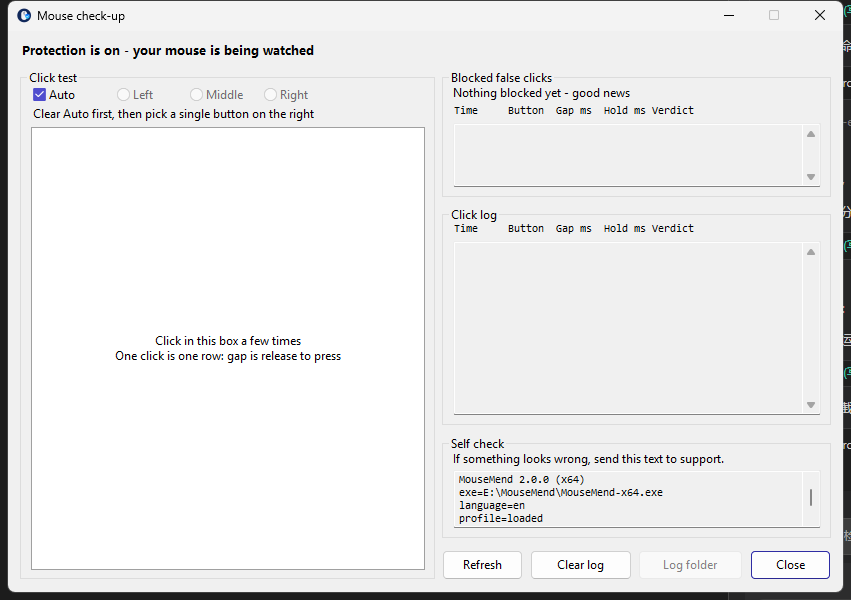
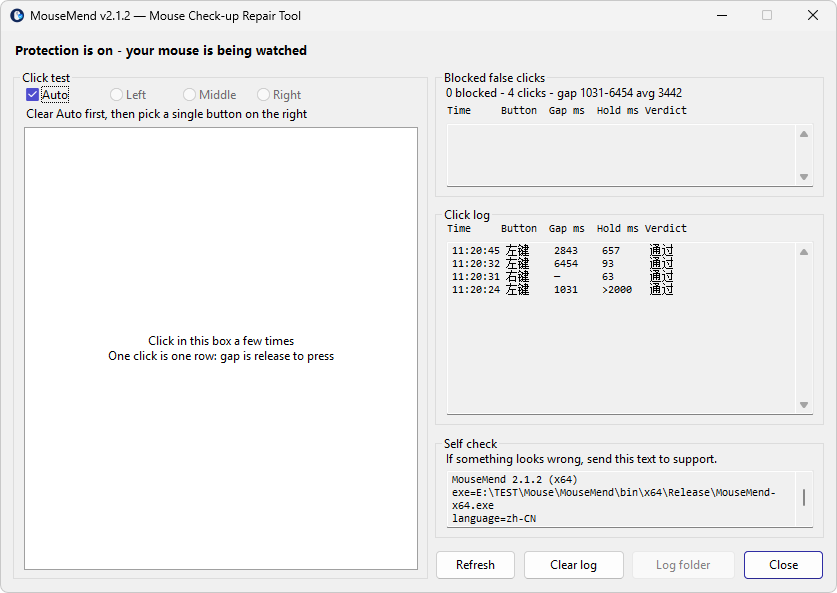
Refresh the screenshots: six now, and the tray menu in both languages
Three changes the new set makes visible at a glance.

The check-up window shots were taken before the caption carried a version, so
they still showed the old title "鼠标体检". The replacements show
"MouseMend v2.1.2 —— 鼠标体检修复工具" and a self-check pane that reports 2.1.2.

The tray menu used to be a single picture, which could only ever show one
language. It is now two, and both have the Advanced submenu expanded, because
that is where the diagnostics export lives and it was previously invisible in
the README.

The About window is new to the README set. It answers the two questions a
visitor asks before downloading: which version is this, and where did the
project come from.

Both READMEs are rewired to the six files, laid out as three rows of two so the
two languages sit side by side. Every img tag keeps the jsDelivr URL: relative
paths resolve through raw.githubusercontent.com, which does not resolve on the
network this project is published from.

Verified: no reference to the removed tray-menu.png remains, all six referenced
names exist, and the two READMEs agree on the same six files.

diff --git a/README.md b/README.md
@@ -28,22 +28,36 @@
      not resolve on networks where that host is blocked, so the pictures were
      showing up as broken alt text for exactly the readers this project is
      published for. jsDelivr serves the same bytes out of the same commit.
-     If the repository is renamed or moved, these three URLs have to follow. -->
+     If the repository is renamed or moved, every URL below has to follow. -->
 <table>
   <tr>
     <td align="center" width="50%">
       <img src="https://cdn.jsdelivr.net/gh/DaYao202025/MouseMend@main/MouseMend/doc/screenshots/checkup-zh.png" width="430" alt="鼠标体检窗口（中文）"><br>
-      <sub>鼠标体检 —— 中文界面</sub>
+      <sub>鼠标体检 · check-up window —— 中文</sub>
     </td>
     <td align="center" width="50%">
       <img src="https://cdn.jsdelivr.net/gh/DaYao202025/MouseMend@main/MouseMend/doc/screenshots/checkup-en.png" width="430" alt="Mouse check-up window (English)"><br>
-      <sub>Mouse check-up — English UI</sub>
+      <sub>check-up window —— English</sub>
     </td>
   </tr>
   <tr>
-    <td align="center" colspan="2">
-      <img src="https://cdn.jsdelivr.net/gh/DaYao202025/MouseMend@main/MouseMend/doc/screenshots/tray-menu.png" width="230" alt="托盘右键菜单"><br>
-      <sub>托盘图标的右键菜单 / the tray menu</sub>
+    <td align="center" width="50%">
+      <img src="https://cdn.jsdelivr.net/gh/DaYao202025/MouseMend@main/MouseMend/doc/screenshots/tray-menu-zh.png" width="300" alt="托盘菜单与高级子菜单（中文）"><br>
+      <sub>托盘菜单 / 高级子菜单 —— 中文</sub>
+    </td>
+    <td align="center" width="50%">
+      <img src="https://cdn.jsdelivr.net/gh/DaYao202025/MouseMend@main/MouseMend/doc/screenshots/tray-menu-en.png" width="300" alt="Tray menu and Advanced submenu (English)"><br>
+      <sub>tray menu / Advanced —— English</sub>
+    </td>
+  </tr>
+  <tr>
+    <td align="center" width="50%">
+      <img src="https://cdn.jsdelivr.net/gh/DaYao202025/MouseMend@main/MouseMend/doc/screenshots/about-zh.png" width="250" alt="关于窗口（中文）"><br>
+      <sub>关于窗口 —— 中文</sub>
+    </td>
+    <td align="center" width="50%">
+      <img src="https://cdn.jsdelivr.net/gh/DaYao202025/MouseMend@main/MouseMend/doc/screenshots/about-en.png" width="250" alt="About window (English)"><br>
+      <sub>about window —— English</sub>
     </td>
   </tr>
 </table>

diff --git a/MouseMend/README.md b/MouseMend/README.md
@@ -129,9 +129,14 @@ from the engine.
   <img src="https://cdn.jsdelivr.net/gh/DaYao202025/MouseMend@main/MouseMend/doc/screenshots/checkup-zh.png" width="430" alt="Check-up window, Chinese UI">
   <img src="https://cdn.jsdelivr.net/gh/DaYao202025/MouseMend@main/MouseMend/doc/screenshots/checkup-en.png" width="430" alt="Check-up window, English UI">
   <br>
-  <img src="https://cdn.jsdelivr.net/gh/DaYao202025/MouseMend@main/MouseMend/doc/screenshots/tray-menu.png" width="230" alt="Tray menu">
+  <img src="https://cdn.jsdelivr.net/gh/DaYao202025/MouseMend@main/MouseMend/doc/screenshots/tray-menu-zh.png" width="290" alt="Tray menu, Chinese UI">
+  <img src="https://cdn.jsdelivr.net/gh/DaYao202025/MouseMend@main/MouseMend/doc/screenshots/tray-menu-en.png" width="290" alt="Tray menu, English UI">
   <br>
-  <sub>检查窗口（中 / 英）与托盘右键菜单 · check-up window and tray menu</sub>
+  <img src="https://cdn.jsdelivr.net/gh/DaYao202025/MouseMend@main/MouseMend/doc/screenshots/about-zh.png" width="250" alt="About window, Chinese UI">
+  <img src="https://cdn.jsdelivr.net/gh/DaYao202025/MouseMend@main/MouseMend/doc/screenshots/about-en.png" width="250" alt="About window, English UI">
+  <br>
+  <sub>体检窗口 / 托盘菜单与高级子菜单 / 关于窗口（中 · 英）<br>
+  check-up window, tray menu with the Advanced submenu, and About — in both languages</sub>
 </p>
 
 ### Tray behaviour
